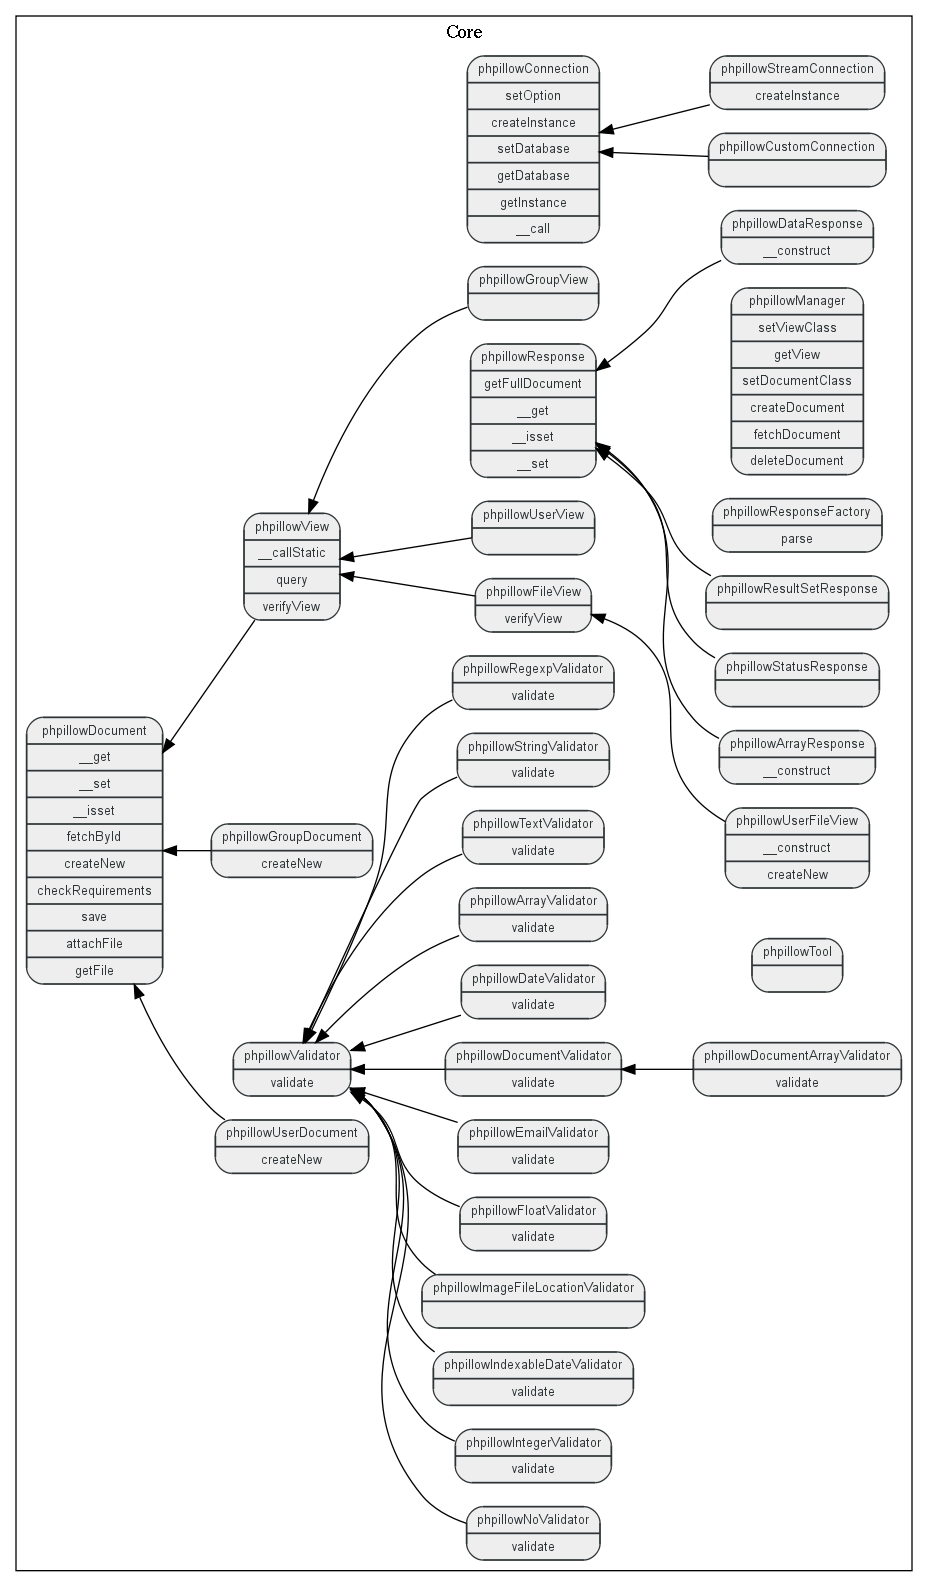
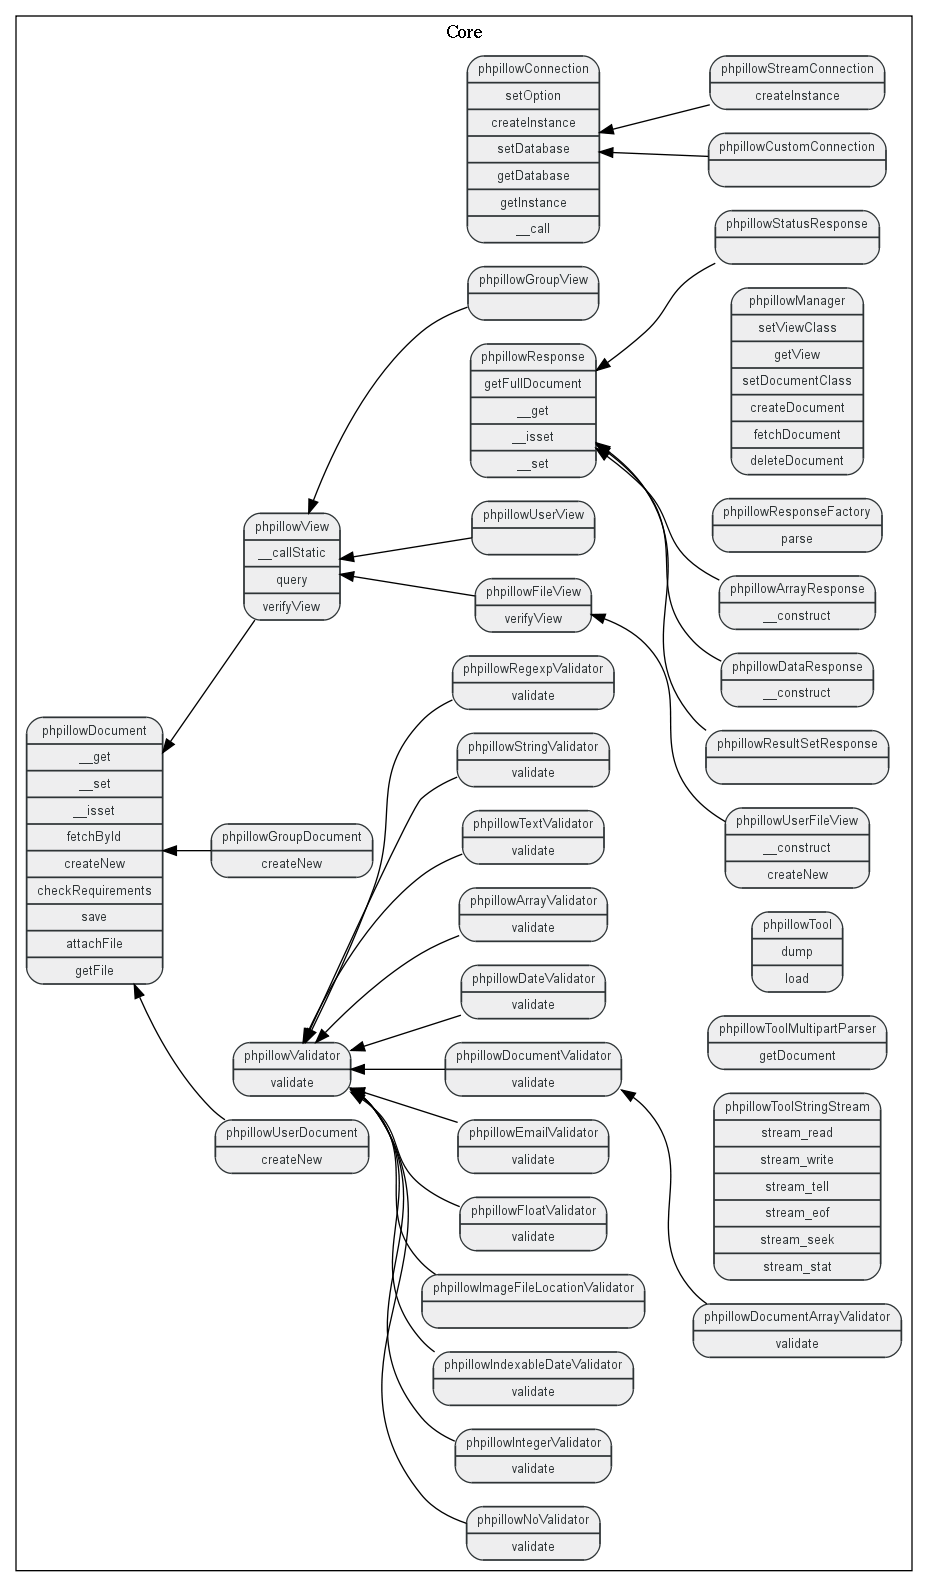
- Implemented: multipart/mixed parser, handling recursively stacked documents.
git-svn-id: svn://arbitracker.org/phpillow/trunk@116 c9640fd1-f2a0-481e-a8e5-009dc8289155

diff --git a/src/classes/tool/multipart_parser.php b/src/classes/tool/multipart_parser.php
@@ -1,0 +1,192 @@
+<?php
+/**
+ * phpillow multipart parser
+ *
+ * This file is part of phpillow.
+ *
+ * phpillow is free software; you can redistribute it and/or modify it under
+ * the terms of the GNU Lesser General Public License as published by the Free
+ * Software Foundation; version 3 of the License.
+ *
+ * phpillow is distributed in the hope that it will be useful, but WITHOUT ANY
+ * WARRANTY; without even the implied warranty of MERCHANTABILITY or FITNESS
+ * FOR A PARTICULAR PURPOSE.  See the GNU Lesser General Public License for
+ * more details.
+ *
+ * You should have received a copy of the GNU Lesser General Public License
+ * along with phpillow; if not, write to the Free Software Foundation, Inc., 51
+ * Franklin St, Fifth Floor, Boston, MA  02110-1301  USA
+ *
+ * @package Core
+ * @version $Revision: 114 $
+ * @license http://www.gnu.org/licenses/lgpl-3.0.txt LGPL
+ */
+
+/**
+ * Parses MIME messages, especially multipart-messages
+ *
+ * @package Core
+ * @version $Revision: 114 $
+ * @license http://www.gnu.org/licenses/lgpl-3.0.txt LGPL
+ */
+class phpillowToolMultipartParser
+{
+    /**
+     * Stream to read from
+     * 
+     * @var resource
+     */
+    protected $stream;
+
+    /**
+     * Document properties
+     * 
+     * @var array
+     */
+    protected $options;
+
+    /**
+     * Construct parser from input stream
+     * 
+     * @param resource $stream 
+     * @return void
+     */
+    public function __construct( $stream )
+    {
+        $this->stream = $stream;
+
+        $this->checkStream();
+    }
+
+    /**
+     * Check stream
+     *
+     * Ensure given stream is a "multipart/mixed" mixed document, and read the
+     * important document properties, like the boundary string, for further
+     * processing.
+     * 
+     * @return void
+     */
+    protected function checkStream()
+    {
+        // Find document content type
+        while ( !feof( $this->stream ) )
+        {
+            $line = fgets( $this->stream );
+
+            // Check if we found a new document definition
+            if ( !preg_match( '(^Content-Type:\\s+(?P<type>[a-z*][a-z0-9_/*+.-]*)(;\s*(?P<options>.*))?$)', trim( $line ), $match ) )
+            {
+                continue;
+            }
+
+            $type    = $match['type'];
+            $options = isset( $match['options'] ) ? preg_split( '(\s*;\s*)', $match['options'] ) : array();
+            foreach ( $options as $option )
+            {
+                if ( preg_match( '(^(?P<key>[a-z-]+)=("?)(?P<value>.*?)\\2$)', $option, $match ) )
+                {
+                    $this->options[$match['key']] = $match['value'];
+                }
+            }
+
+            if ( $type !== 'multipart/mixed' )
+            {
+                throw new phpillowMultipartParserException( 'This handler does only understand "multipart/mixed" documents.' );
+            }
+
+            break;
+        }
+
+        // Search for forst starting boundary
+        while ( !feof( $this->stream ) )
+        {
+            if ( trim( fgets( $this->stream ) ) === '--' . $this->options['boundary'] )
+            {
+                break;
+            }
+        }
+    }
+
+    /**
+     * Parse a single document
+     *
+     * Parse a single document, and return an array with all headers and the
+     * document body. If the parsed document is of the type "multipart/mixed",
+     * an array with all parts is returned as the type.
+     * 
+     * @param string $string 
+     * @return array
+     */
+    protected function parseDocument( $string )
+    {
+        $document = array();
+
+        // Read document headers
+        while ( preg_match( '(\\A(?P<header>[A-Za-z0-9-]+):\s+(?P<value>.*)$)Sm', $string, $match ) )
+        {
+            $document[$match['header']] = trim( $match['value'] );
+            $string = substr( $string, strlen( $match[0] ) + 1 );
+        }
+
+        if ( strpos( $document['Content-Type'], 'multipart/mixed' ) === 0 )
+        {
+            // Rebuild full document
+            $body = '';
+            foreach ( $document as $key => $value )
+            {
+                $body .= "$key: $value\r\n";
+            }
+            $body .= $string;
+
+            $document['body'] = array();
+            $parser = new phpillowToolMultipartParser( fopen( 'string://' . $body, 'r' ) );
+            while ( ( $part = $parser->getDocument() ) !== false )
+            {
+                $document['body'][] = $part;
+            }
+        }
+        else
+        {
+            $document['body'] = trim( $string );
+        }
+
+        return $document;
+    }
+
+    /**
+     * Get document from stream
+     *
+     * Get the (next) document from the stream. Will return an array with the
+     * document properties and their values (like Content-Type), as well as an
+     * 'body' index, which contains the actual contents of the document.
+     *
+     * Returns false, if the stream has ended or no document definition could
+     * be found.
+     * 
+     * @return mixed
+     */
+    public function getDocument()
+    {
+        if ( feof( $this->stream ) )
+        {
+            return false;
+        }
+
+        $document = '';
+        while ( ( $line = fgets( $this->stream ) ) &&
+                ( trim( $line ) !== '--' . $this->options['boundary'] ) &&
+                ( trim( $line ) !== '--' . $this->options['boundary'] . '--' ) )
+        {
+            $document .= $line;
+        }
+
+        if ( trim( $document ) === '' )
+        {
+            return false;
+        }
+
+        return $this->parseDocument( trim( $document ) );
+    }
+}
+

diff --git a/tests/tool/multipart_parser_test.php b/tests/tool/multipart_parser_test.php
@@ -1,0 +1,126 @@
+<?php
+/**
+ * Basic test cases for the model manager
+ *
+ * @version $Revision: 114 $
+ * @license GPLv3
+ */
+
+/**
+ * Tests for the basic model
+ */
+class phpillowMultipartParserTests extends PHPUnit_Framework_TestCase
+{
+    /**
+     * Return test suite
+     *
+     * @return PHPUnit_Framework_TestSuite
+     */
+	public static function suite()
+	{
+		return new PHPUnit_Framework_TestSuite( __CLASS__ );
+	}
+
+    public function setUp()
+    {
+        if ( !array_search( 'string', stream_get_wrappers() ) )
+        {
+            stream_wrapper_register( 'string', 'phpillowToolStringStream' );
+        }
+    }
+
+    public function testFailOnInvalidString()
+    {
+        $parser = new phpillowToolMultipartParser(
+            fopen( 'string://foo', 'r' )
+        );
+
+        $this->assertSame( false, $parser->getDocument() );
+    }
+
+    public function testFailOnInvalidType()
+    {
+        try
+        {
+            $parser = new phpillowToolMultipartParser(
+                fopen( "string://Content-Type: text/text; boundary=foo\r\n", 'r' )
+            );
+            $this->fail( "Expected phpillowMultipartParserException." );
+        }
+        catch ( phpillowMultipartParserException $e )
+        { /* Expected */ }
+    }
+
+    public function testFailOnInvalidString2()
+    {
+        $parser = new phpillowToolMultipartParser(
+            fopen( 'string://Content-Type: multipart/mixed; boundary=foo
+
+--foo', 'r' )
+        );
+
+        $this->assertSame( false, $parser->getDocument() );
+    }
+
+    public function testFailOnEmptyDocument()
+    {
+        $parser = new phpillowToolMultipartParser(
+            fopen( 'string://Content-Type: multipart/mixed; boundary=foo
+
+--foo
+--foo--', 'r' )
+        );
+
+        $this->assertSame( false, $parser->getDocument() );
+    }
+
+    public function testParseSimpleDocument()
+    {
+        $parser = new phpillowToolMultipartParser(
+            fopen( 'string://Content-Type: multipart/mixed; boundary=foo
+
+--foo
+Content-Type: text/text
+
+Hello world!
+--foo--', 'r' )
+        );
+
+        $this->assertSame( array(
+                'Content-Type' => 'text/text',
+                'body'         => 'Hello world!',
+            ),
+            $parser->getDocument()
+        );
+        $this->assertSame( false, $parser->getDocument() );
+    }
+
+    public function testParseStackedMultipartDocument()
+    {
+        $parser = new phpillowToolMultipartParser(
+            fopen( 'string://Content-Type: multipart/mixed; boundary=foo
+
+--foo
+Content-Type: multipart/mixed; boundary="bar"
+
+--bar
+Content-Type: text/text
+
+Hello world!
+--bar--
+--foo--', 'r' )
+        );
+
+        $this->assertSame( array(
+                'Content-Type' => 'multipart/mixed; boundary="bar"',
+                'body'         => array(
+                    array(
+                        'Content-Type' => 'text/text',
+                        'body'         => 'Hello world!',
+                    ),
+                ),
+            ),
+            $parser->getDocument()
+        );
+    }
+}

diff --git a/src/classes/exception.php b/src/classes/exception.php
@@ -344,3 +344,24 @@ class phpillowResponseConflictErrorException extends phpillowResponseErrorExcept
     }
 }
 
+/**
+ * Exception thrown if the parsing of a multipart/mixed document failed.
+ * 
+ * @package Core
+ * @version $Revision$
+ * @license http://www.gnu.org/licenses/gpl-3.0.txt GPL
+ */
+class phpillowMultipartParserException extends phpillowException
+{
+    /**
+     * Construct parent from message
+     * 
+     * @param string $message
+     * @return void
+     */
+    public function __construct( $message )
+    {
+        parent::__construct( $message, array() );
+    }
+}
+

diff --git a/src/classes/autoload.php b/src/classes/autoload.php
@@ -46,6 +46,7 @@ return array(
     'phpillowResponseErrorException'         => 'classes/exception.php',
     'phpillowResponseNotFoundErrorException' => 'classes/exception.php',
     'phpillowResponseConflictErrorException' => 'classes/exception.php',
+    'phpillowMultipartParserException'       => 'classes/exception.php',
     'phpillowView'                           => 'classes/view.php',
     'phpillowFileView'                       => 'classes/file_view.php',
     'phpillowUserFileView'                   => 'classes/file_view/user.php',

diff --git a/tests/tool_suite.php b/tests/tool_suite.php
@@ -17,6 +17,7 @@ if ( !defined( 'PHPILLOW_TEST_ENV_SET_UP' ) )
  */
 require 'tool/main_test.php';
 require 'tool/string_stream_test.php';
+require 'tool/multipart_parser_test.php';
 
 /**
 * Test suite for phpillow
@@ -35,6 +36,7 @@ class phpillowToolTestSuite extends PHPUnit_Framework_TestSuite
 
         $this->addTest( phpillowToolTests::suite() );
         $this->addTest( phpillowStringStreamTests::suite() );
+        $this->addTest( phpillowMultipartParserTests::suite() );
     }
 
     /**
